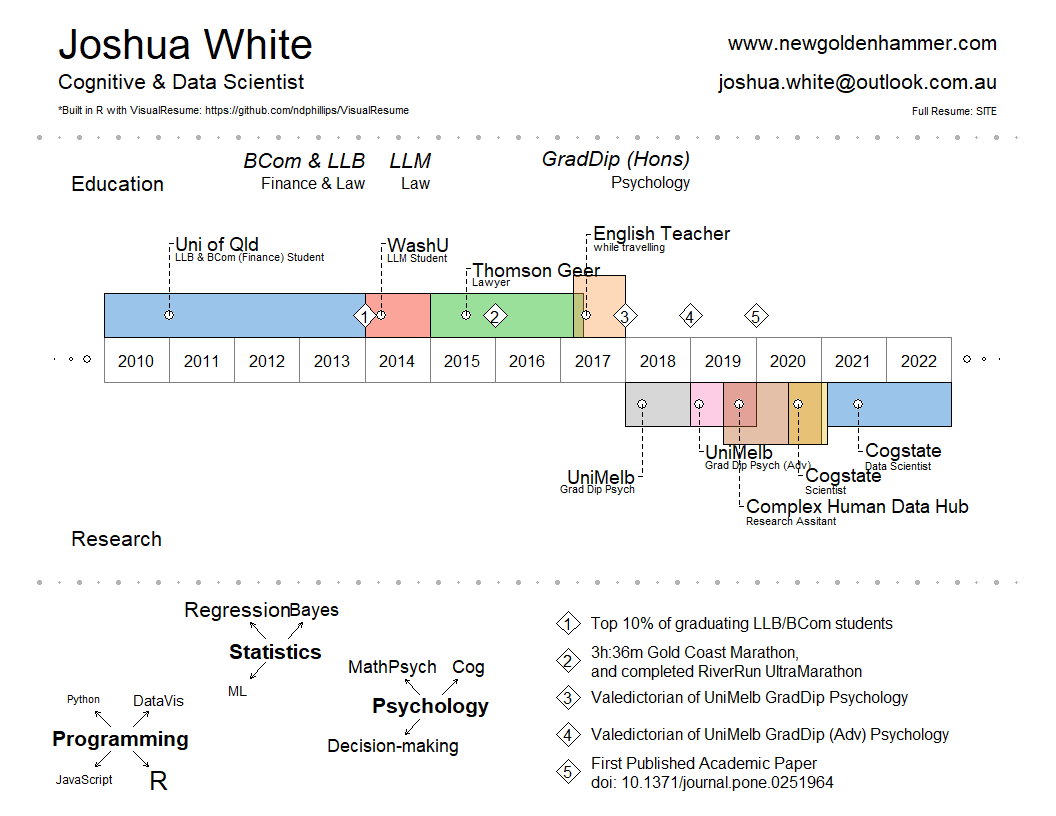
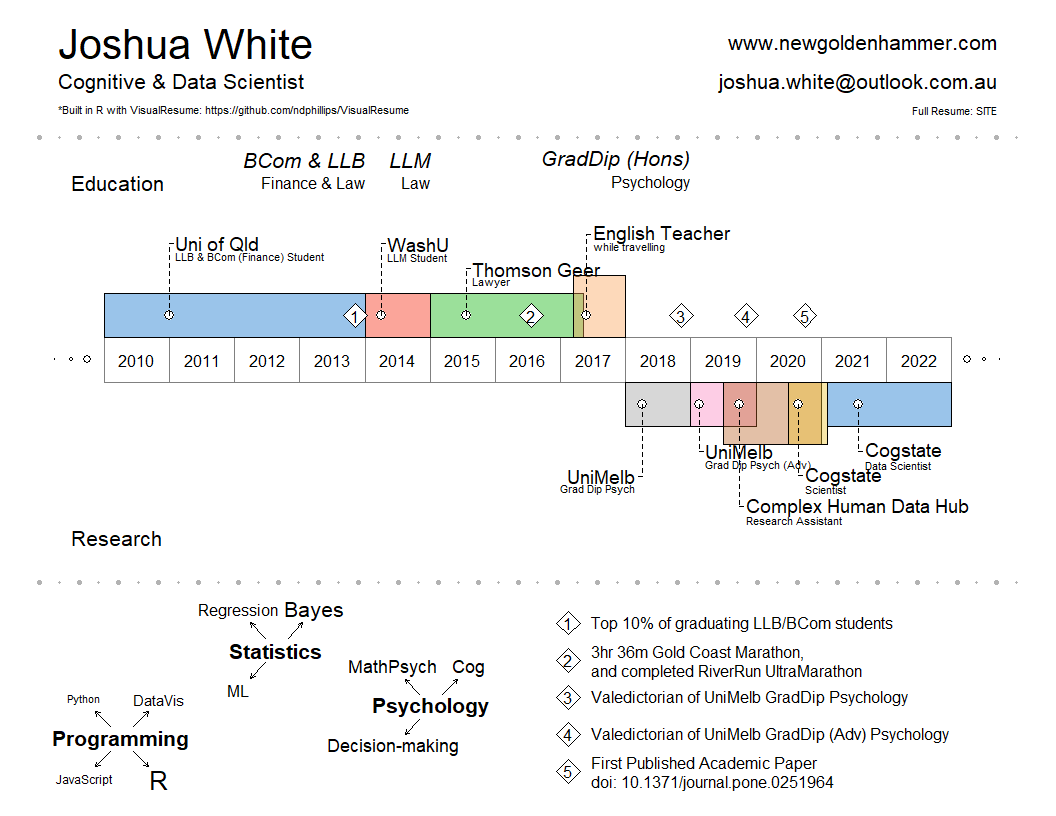
Update VisualResume in readme

diff --git a/README.md b/README.md
@@ -3,8 +3,8 @@
 
 # CV
 
-My attempts at creating a CV(s) using R packages ‘pagedown’ and
-’VisualResume\`.
+My attempts at creating a CV(s) using R packages ‘pagedown’,
+DataDrivenCV, ’VisualResume\`, and others. .
 
 <!-- badges: start -->
 <!-- badges: end -->
@@ -39,7 +39,7 @@ VisualResume(
                 "Cogstate"),
       sub = c("LLB & BCom (Finance) Student", "LLM Student", "Lawyer", 
               "while travelling", "Grad Dip Psych", "Grad Dip Psych (Adv)",
-              "Research Assitant", "Scientist", "Data Scientist"),
+              "Research Assistant", "Scientist", "Data Scientist"),
       start = c(2010, 2014, 2015, 2017.2, 2018, 2019, 2019.5, 2020.5, 2021.1),
       end = c(2014, 2015, 2017.35, 2018, 2019, 2020, 2021, 2021.1, 2023),
       side = c(1, 1, 1, 1, 0, 0, 0, 0, 0)),
@@ -49,16 +49,16 @@ VisualResume(
       sub = c("Finance & Law", "Law", "Psychology"),
       year = c(2014, 2015, 2019)),
   events = data.frame(
-    year = c(2014, 2016, 2018, 2019, 2020),
+    year = c(2013.85, 2016.55, 2018.85, 2019.85, 2020.75),
     title = c("Top 10% of graduating LLB/BCom students",
-              "3h:36m Gold Coast Marathon,\nand completed RiverRun UltraMarathon",
+              "3hr 36m Gold Coast Marathon,\nand completed RiverRun UltraMarathon",
               "Valedictorian of UniMelb GradDip Psychology",
               "Valedictorian of UniMelb GradDip (Adv) Psychology",
               "First Published Academic Paper\ndoi: 10.1371/journal.pone.0251964")),
   interests = 
     list(
       "Programming" = c(rep("R", 30), rep("DataVis", 9), rep("JavaScript", 2), "Python"),
-      "Statistics" = c(rep("ML", 1), rep("Regression", 3), rep("Bayes", 2)),
+      "Statistics" = c(rep("ML", 1), rep("Regression", 1), rep("Bayes", 2)),
       "Psychology" = c(rep("Cog", 3), rep("MathPsych", 3), rep("Decision-making", 3))),
   year.steps = 1
 )
@@ -66,4 +66,4 @@ VisualResume(
 
 <img src="man/figures/README-unnamed-chunk-2-1.png" width="100%" />
 
-## PDF Resume
+## PDF Resume via `DataDrivenCV` and `PageDown`
